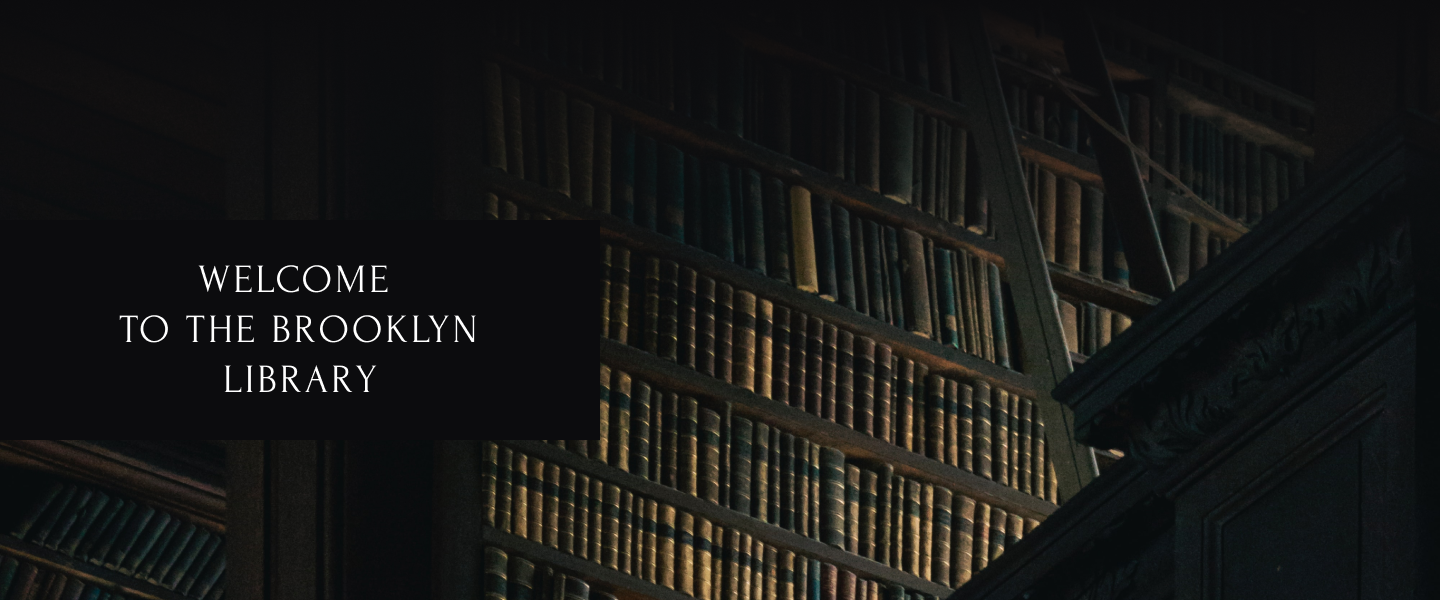
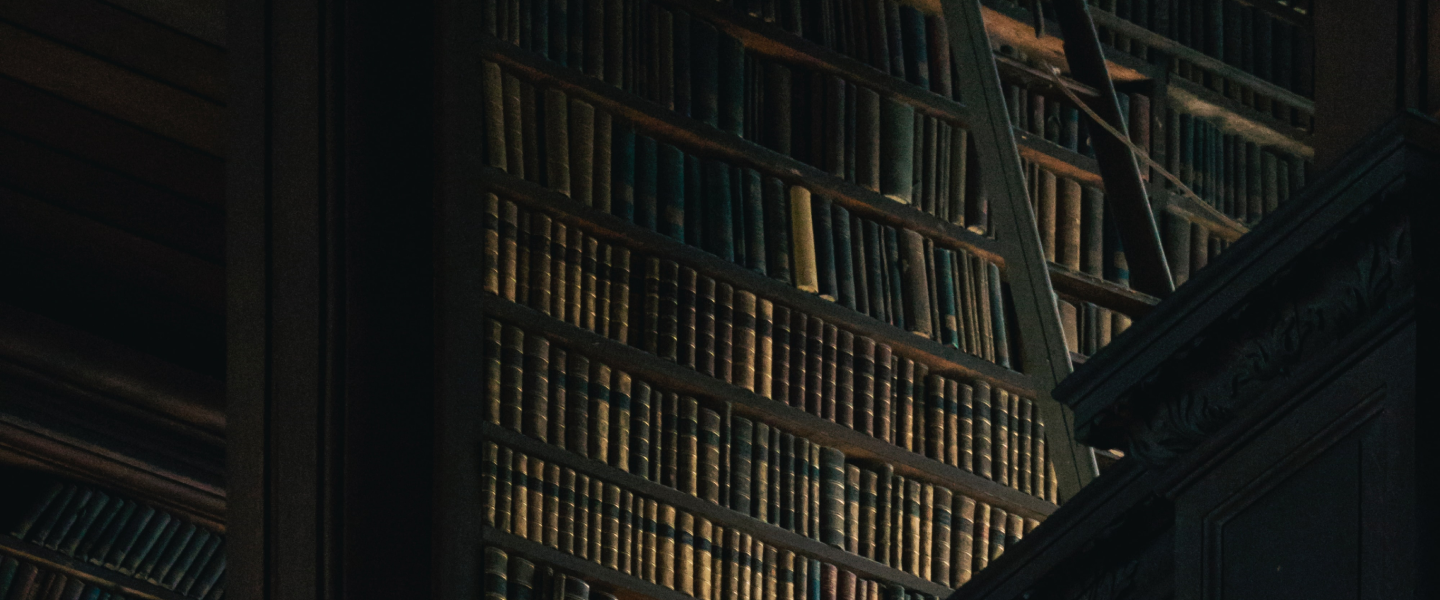
feat: add rules for 768p (tablet mode)

diff --git a/css/style.css b/css/style.css
@@ -1,3 +1,52 @@
+*,
+::after,
+::before {
+  box-sizing: border-box;
+}
+
+html {
+  scroll-behavior: smooth;
+}
+
+body {
+  margin: 0;
+}
+
+/* Если раскоментировать, то иконки соц. сетей в футере будут огромными.Решить!
+img {
+  display: block;
+  width: 100%;
+  height: auto;
+}
+*/ 
+button,
+input,
+textarea {
+  font-family: inherit;
+  font-size: 100%;
+  margin: 0;
+}
+
+ul {
+  padding: 0;
+  margin: 0;
+  list-style: none;
+}
+
+h1,
+h2,
+h3,
+h4,
+h5,
+h6,
+p {
+  margin: 0;
+}
+
+a {
+  text-decoration: none;
+  color: inherit;
+}
 html {  
     scroll-behavior: smooth; /* Плавная прокрутка*/
     }
@@ -8,36 +57,44 @@ a{
     color :#000; /* Правило для того, что бы в разделе контактов не было на ссылках синего подчеркивания.*/
 }
 .desktop{      /* Правило для всего макета*/
-    display: flex;
-    width: 1440px;
-    flex-direction: column;
-    justify-content: center;
-    align-items: flex-start;
+    margin-top: -1px;
+    max-width: 1440px;
+    width: 100%;
     margin: 0 auto;
+    padding: 0 20px;
 }
 
 .welcome{     
-    width: 1440px;
     height: 600px;
-    background: url(../images/Welcome.png), lightgray 50% / cover no-repeat;
+    background-image: linear-gradient(180deg, #0c0c0e 0%, #0c0c0e 0.01%, rgba(18, 18, 21, 0.1) 50%, transparent 50%, transparent 100%), url("../images/Welcome.png");
     background-size: cover;
+    background-position: center;
     
 }
 .header{
-    display: flex;
     height: 90px;
-    width: 1440px;
-    background-color: #0C0C0E;
+}
+.header_container{
+    display: flex;
     align-items: center;
-    justify-content: space-between;    
+    background-color: #0C0C0E;
+}
+@media (max-width:1023px){
+    .header_container{
+        display: flex;
+        justify-content: space-between;
+    }
+}
+@media (max-width:768px){
+    .header_container{
+        display: flex;
+        justify-content: space-between;;
+        
+    }
 }
 
-
 .Brooklyn_Public_Library{
-    margin-left: 20px;
-    margin-top: 20px;
-    width: 310px;
-    height: 50px;
+    padding: 20px 0px;
     color: #FFF;
     font-family: Forum;
     font-size: 30px;
@@ -48,13 +105,21 @@ a{
 }
 
 .nav{
-    margin-left: 420px;
-    display: inline-flex; /* Делает отступы между элементами меню*/
-    align-items: flex-start;
-    gap: 30px; /* Размер отступов*/
-    color: #FFF;
+    display: none;
+    
+}
+@media (min-width: 1024px){
+    .nav{
+        margin-left: auto;
+        display: inline-flex; /* Делает отступы между элементами меню*/
+        align-items: center;
+        gap: 30px; /* Размер отступов*/
+        color: #FFF;
+    }
 }
 .nav_link{
+    display: block;
+    padding: 20px 0;
     color: #FFF;
     font-family: Inter;
     font-size: 20px;
@@ -70,13 +135,23 @@ a{
     transform: scale(1.2)
 }
 .icon_profile{
-    margin-right: 31px;
+    margin-left: 40px;
     width: 28px;
     height: 28px;
     flex-shrink: 0;
 }
+.burdger_icon{
+    display: flex;
+    align-items: center;
+}
 .burger{
-    display: none;
+    display: block;
+    margin-left: 40px;
+}
+@media (min-width: 1024px){
+    .burger{
+        display: none;
+    }
 }
 .welcome-bg{
     display: flex;
@@ -89,7 +164,7 @@ a{
 }
 
 .About{ /* Область раздела About*/
-    width: 1440px;
+    
     height: 837px;
     background: #FFF;
  }
@@ -118,7 +193,7 @@ h2{  /* h2 Оформление заголовков разделов*/
     background: #0C0C0E;
 }
 .workspace{  /* The Brooklyn Library is a free workspace, a large number of books and a cozy coffee shop inside*/
-    width: 1440px;
+    
     margin-top: 25px;
     color: #000;
     text-align: center;
@@ -716,36 +791,30 @@ h2{  /* h2 Оформление заголовков разделов*/
     text-decoration: none;
 }
 
-@media (max-width: 768px){
-    .desktop{
-        display: flex;
-        width: 768px;
-        flex-direction: column;
-        justify-content: center;
-        align-items: flex-start;
-    }
+@media (width: 768px){
+
     .welcome{     
         width: 768px;
         height: 600px;
+        background-image: linear-gradient(180deg, #0c0c0e 0%, #0c0c0e 0.01%, rgba(18, 18, 21, 0.1) 50%, transparent 50%, transparent 100%), url("../images/Welcome.png");
         background: url(../images/Welcome.png), lightgray 50% / cover no-repeat;
         background-size: cover;
+        background-position: center;
         
     }
     .nav {
         display: none;
     }
-    .header{
+    /*.header{
         display: flex;
         width: 768px;
         height: 90px;
         
         justify-content: center;
         align-items: center;        
-    }
+    }*/
 
     .Brooklyn_Public_Library{
-        width: 294px;
-        height: 50px;
         color: #FFF;
         font-family: Forum;
         font-size: 30px;
@@ -759,7 +828,7 @@ h2{  /* h2 Оформление заголовков разделов*/
     .icon_profile{
         width: 28px;
         height: 28px;
-        margin-left: 290px;
+        
         flex-shrink: 0;
     }
     .burger{
@@ -767,7 +836,6 @@ h2{  /* h2 Оформление заголовков разделов*/
         width: 45px;
         height: 20px;
         flex-shrink: 0;
-        margin-right: 60px;
     }
     .section_title{
         margin-top: 20px;
@@ -783,10 +851,10 @@ h2{  /* h2 Оформление заголовков разделов*/
         width: 768px;
     }
     .images_area{
-        display: block;
-        margin-top: 20px;
-        margin-left: 77px;
+        display: flex;
         width: 768px;
+        margin: 20px auto;
+        justify-content: center;
         
     }
     .image_area_item{
@@ -796,10 +864,8 @@ h2{  /* h2 Оформление заголовков разделов*/
         display: none;
     }
     .Carousel_pagination{
-        width: 120px;
-        height: 16px;
-        margin-top: 20px;
-        margin-left: 324px; /* Значение от балды. Испрвить*/
+    height: 16px;
+    margin: 20px auto;
     }
     .Favorites{
         width: 768px;
@@ -944,5 +1010,8 @@ h2{  /* h2 Оформление заголовков разделов*/
     }
     .footer_frame{
         margin-left: 0px
+    }
+    .find_botton{
+        margin: 10px 178px;
     }
 }

diff --git a/index.html b/index.html
@@ -16,28 +16,32 @@
     <script src="js/index.js"></script>
     <title>Brooklyn Public Library</title>
 </head>
-<body>
-    <div class ="desktop">
+    <body>
+    
         <header class="header">
-            <h1 class="Brooklyn_Public_Library">
-                Brooklyn Public Library
-            </h1>
-            <nav class="nav"> <!-- Панель навигации-->
-                <a class="nav_link" href="#About">About</a>
-                <a class="nav_link" href="#Favorites">Favorites</a>
-                <a class="nav_link" href="#CoffeShop">Coffee shop</a>
-                <a class="nav_link" href="#Contacts">Contacts</a>
-                <a class="nav_link" href="#Library_Card">Library Card</a>
-            </nav>
-            <div class="icon_profile">
-                <img src="images/icon_profile.png" alt="logo">
-            </div>
-            <div class="burger">
-                <img src="images/burger.svg" alt="menu_burger">
+                <div class="desktop header_container">
+                    <h1 class="Brooklyn_Public_Library">
+                    Brooklyn Public Library
+                    </h1>
+                <nav class="nav"> <!-- Панель навигации-->
+                    <a class="nav_link" href="#About">About</a>
+                    <a class="nav_link" href="#Favorites">Favorites</a>
+                    <a class="nav_link" href="#CoffeShop">Coffee shop</a>
+                    <a class="nav_link" href="#Contacts">Contacts</a>
+                    <a class="nav_link" href="#Library_Card">Library Card</a>
+                </nav>
+                <div class="burdger_icon">
+                    <div class="icon_profile">
+                        <img src="images/icon_profile.png" alt="logo">
+                    </div>
+                    <div class="burger">
+                        <img src="images/burger.svg" alt="menu_burger">
+                    </div>
+                </div>
             </div>
         </header>
-        <main>
-            <div class="welcome"></div>
+        <main class="main">
+            <div class="welcome desktop"></div>
             <section id="About" class="About">
                 <div class="section_title">
                     <h2>About</h2>
@@ -243,4 +247,6 @@
     </Footer>
 </div>
 </body>
+</html>
+    </body>
 </html>
